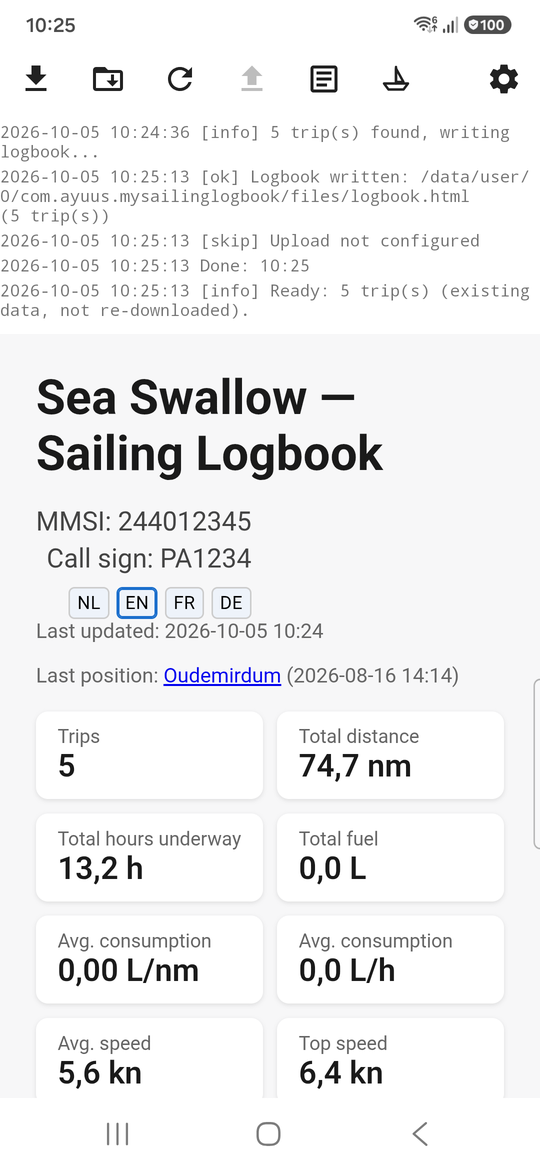
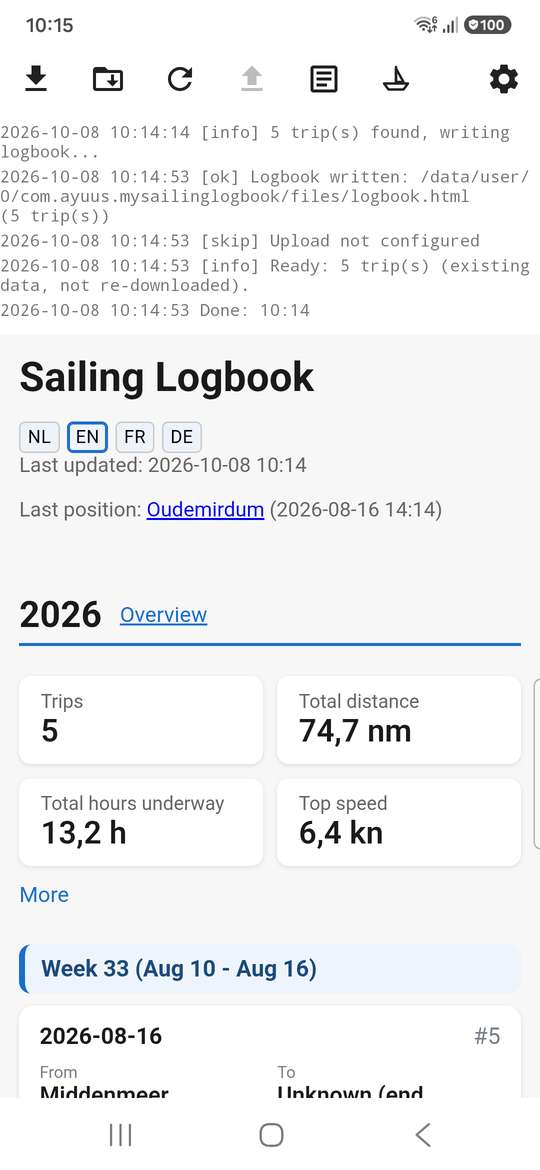
Screenshots: the logbook as cards, the new layout choice in Settings

diff --git a/README.md b/README.md
@@ -44,7 +44,7 @@ trips assembled from them.*
 
 <p>
 <img src="docs/screenshots/settings.png" width="230" alt="Settings: W2K-2, boat, trips, publish">
-<img src="docs/screenshots/settings-more.png" width="230" alt="Settings: boat mode, appearance, clearing the caches, deleting the local .ebl files">
+<img src="docs/screenshots/settings-more.png" width="230" alt="Settings: appearance and the layout of the logbook, clearing the caches, deleting the local .ebl files">
 </p>
 
 *Settings (top and bottom).*
